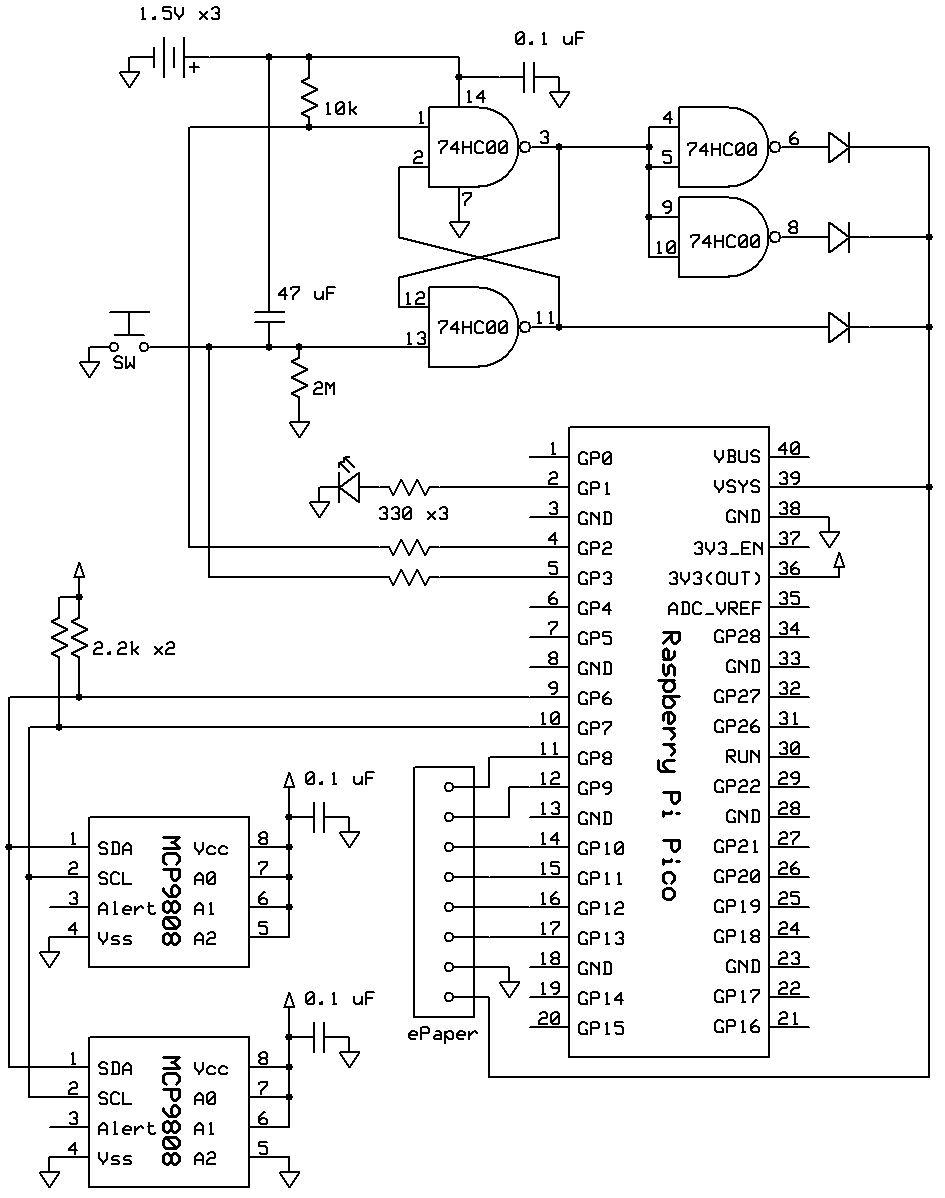
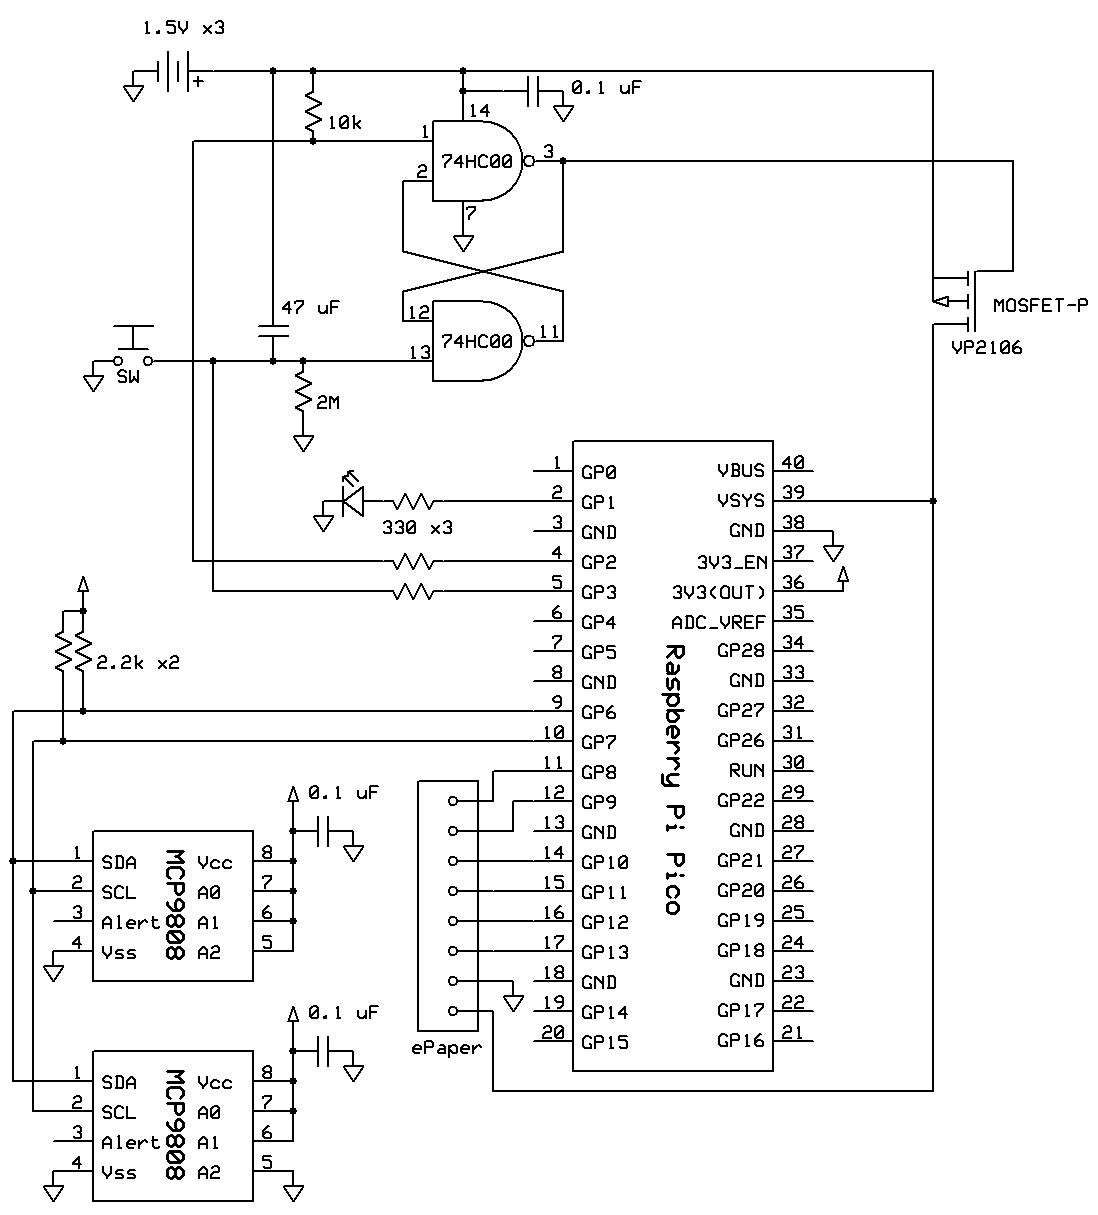
Use MOSFET-P for power supply

Changed region(s): [[0.0, 0.0, 0.8899, 1.0], [0.6751, 0.0927, 1.0, 0.8957], [0.5831, 0.1235, 0.6138, 0.1544]]

diff --git a/src/io.c b/src/io.c
@@ -25,14 +25,15 @@ void init_io(void){
 
 int check_battery(void){
 	// Read ADC for battery
-	// 4.0V: 1655, 2.5V: 1034
-	// 1530-     : 5
-	// 1406-1529 : 4
-	// 1282-1405 : 3
-	// 1158-1281 : 2
-	// 1034-1157 : 1
-	//     -1033 : 0
-	int b=(adc_read()-910)/124;
+	// 4.5V: 1862, 3.6V: 1489
+	// 
+	//     -1864 : 5
+	// 1715-1789 : 4
+	// 1640-1714 : 3
+	// 1565-1639 : 2
+	// 1490-1564 : 1
+	//     -1489 : 0
+	int b=(adc_read()-1415)/75;
 	if (5<b) b=5;
 	if (b<0) b=0;
 	return b;
@@ -84,12 +85,12 @@ t_data* get_t_data(void){
 	i2c_read_blocking(IO_I2C_CH,0x1f,d,2,false);
 	i=((d[0]&0xf)<<8)|d[1];
 	i=10*i/15;
-	Td=((float)i)/10+0.1; // Note "+0.1" here depends on each MCP9808 chip characteristic
+	Td=((float)i)/10+0.1;
 	// Bulb 2 shows 0.1 degree higher temperature
 	i2c_read_blocking(IO_I2C_CH,0x1b,d,2,false);
 	i=((d[0]&0xf)<<8)|d[1];
 	i=10*i/15;
-	Tw=((float)i)/10-0.1; // Note "-0.1" here depends on each MCP9808 chip characteristic
+	Tw=((float)i)/10-0.1;
 	// Calculate humidity
 	tdat.humidity=humidity(Td,Tw);
 	// Set temperature
